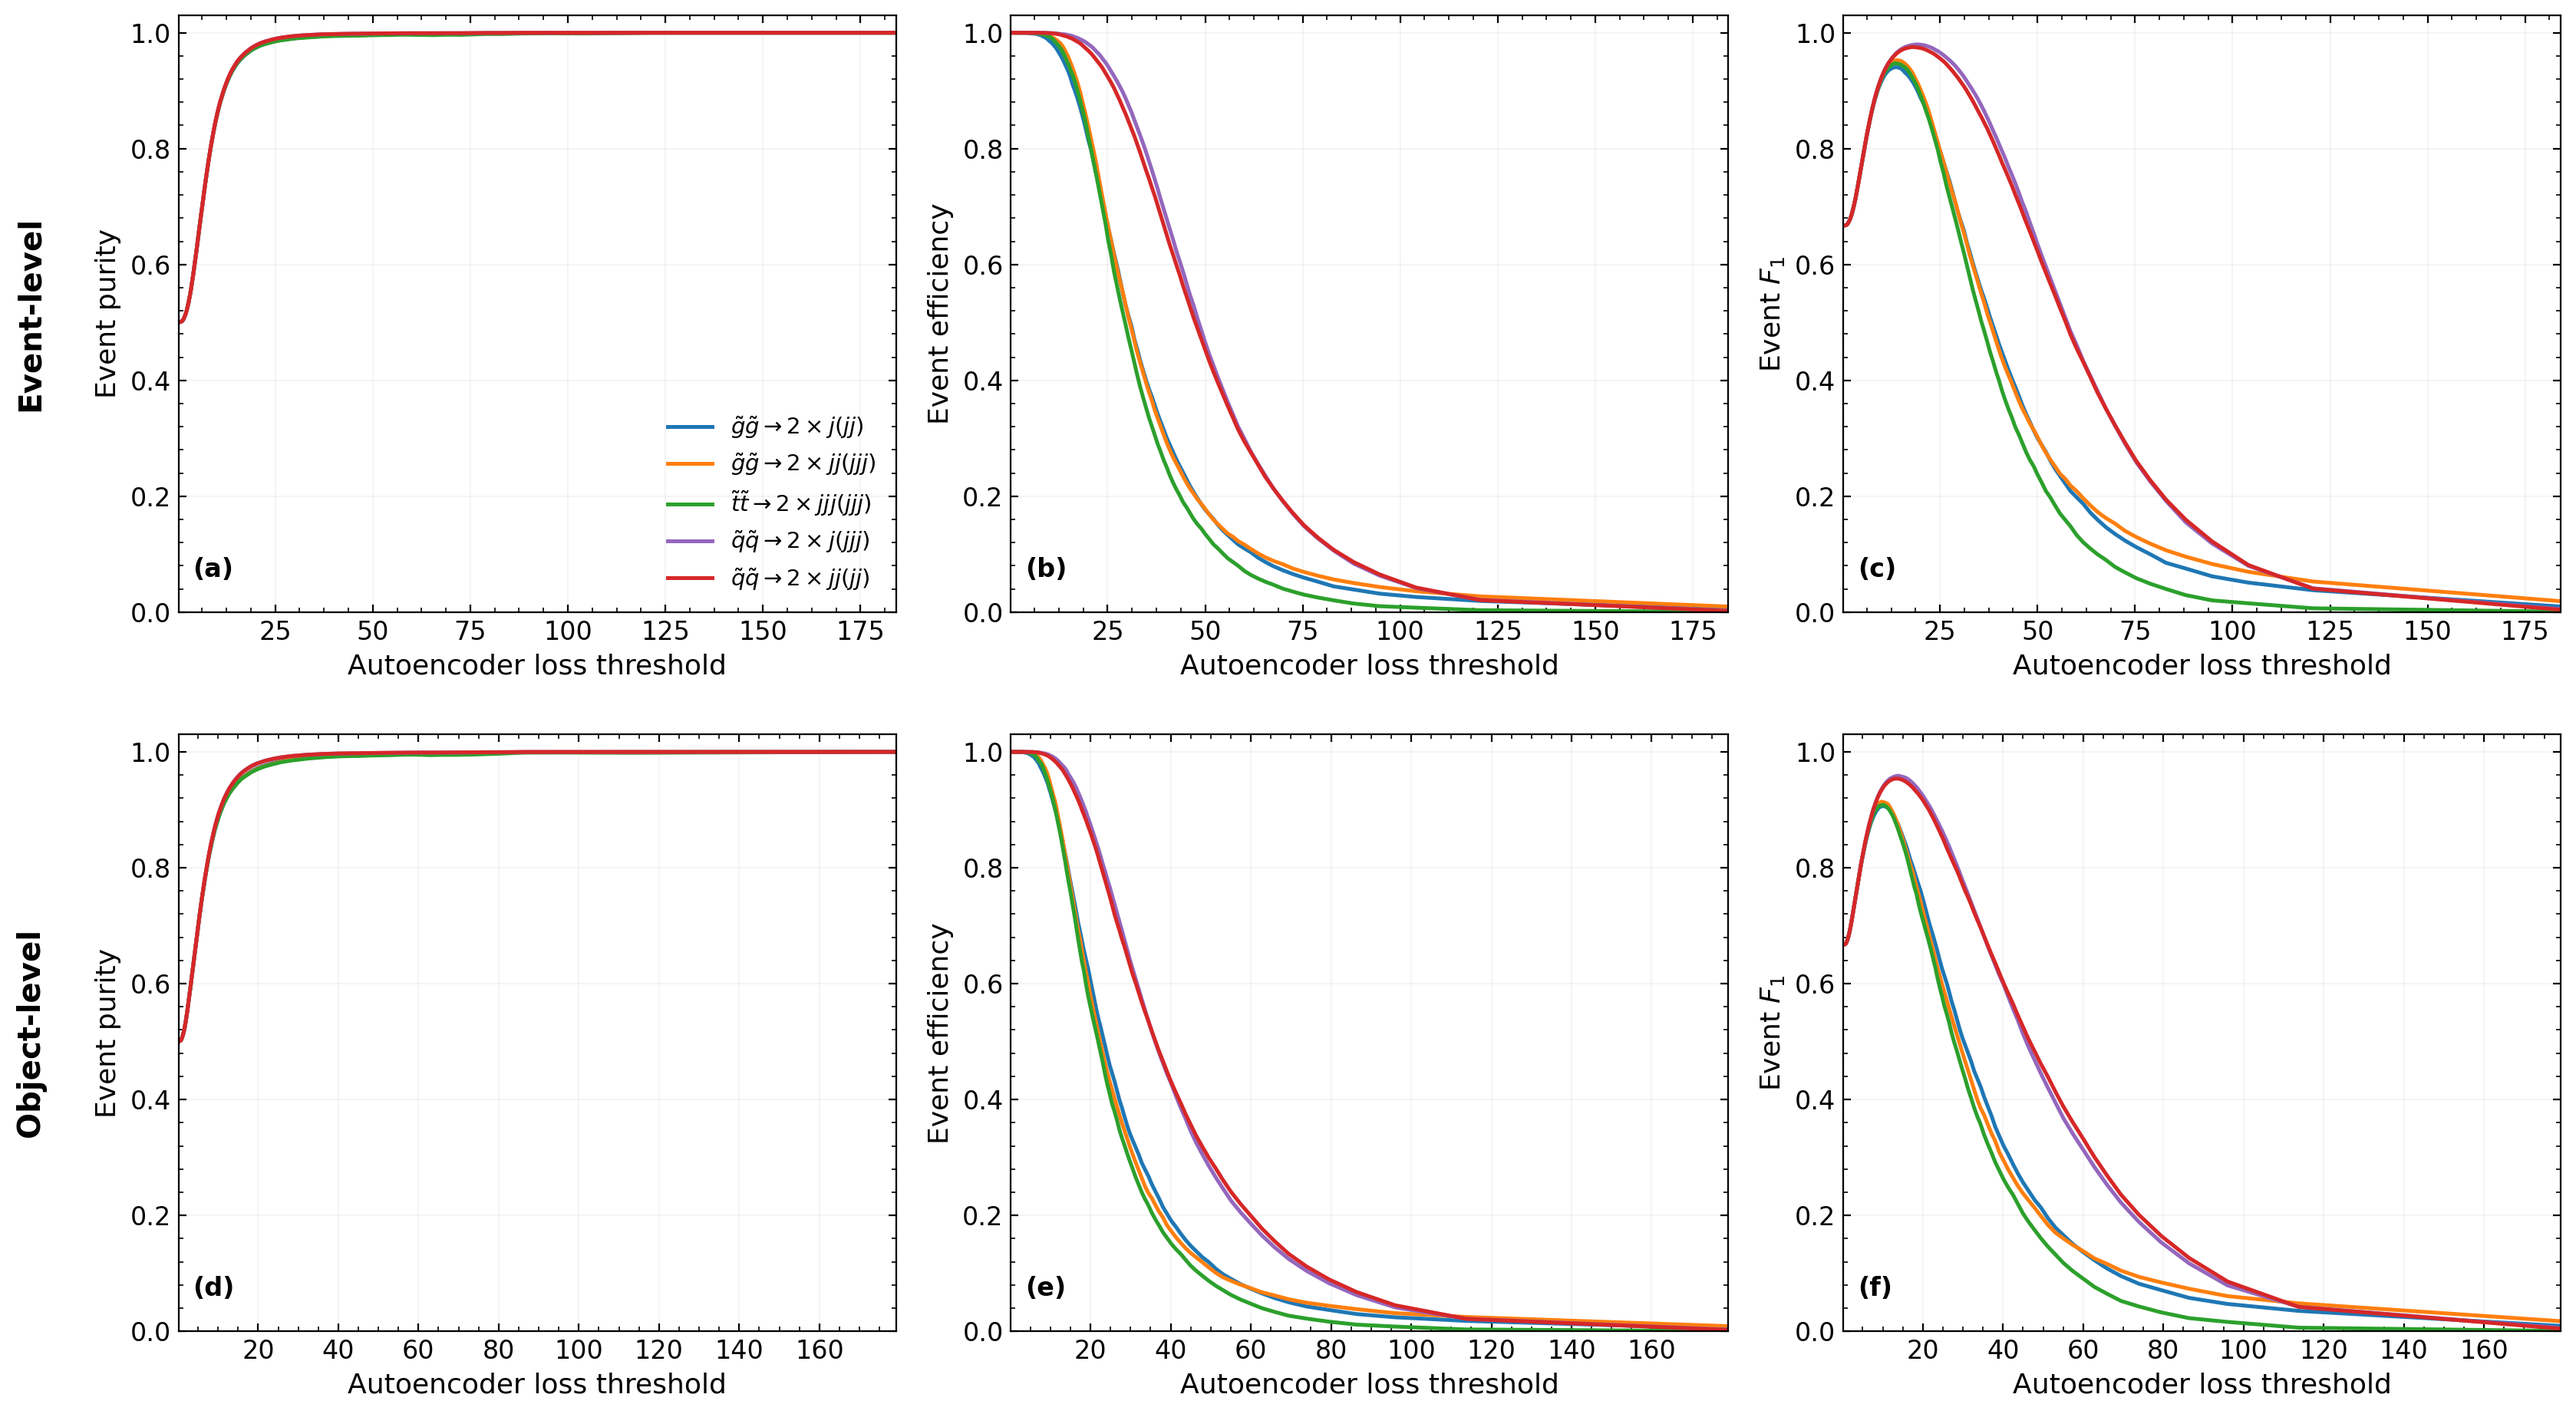
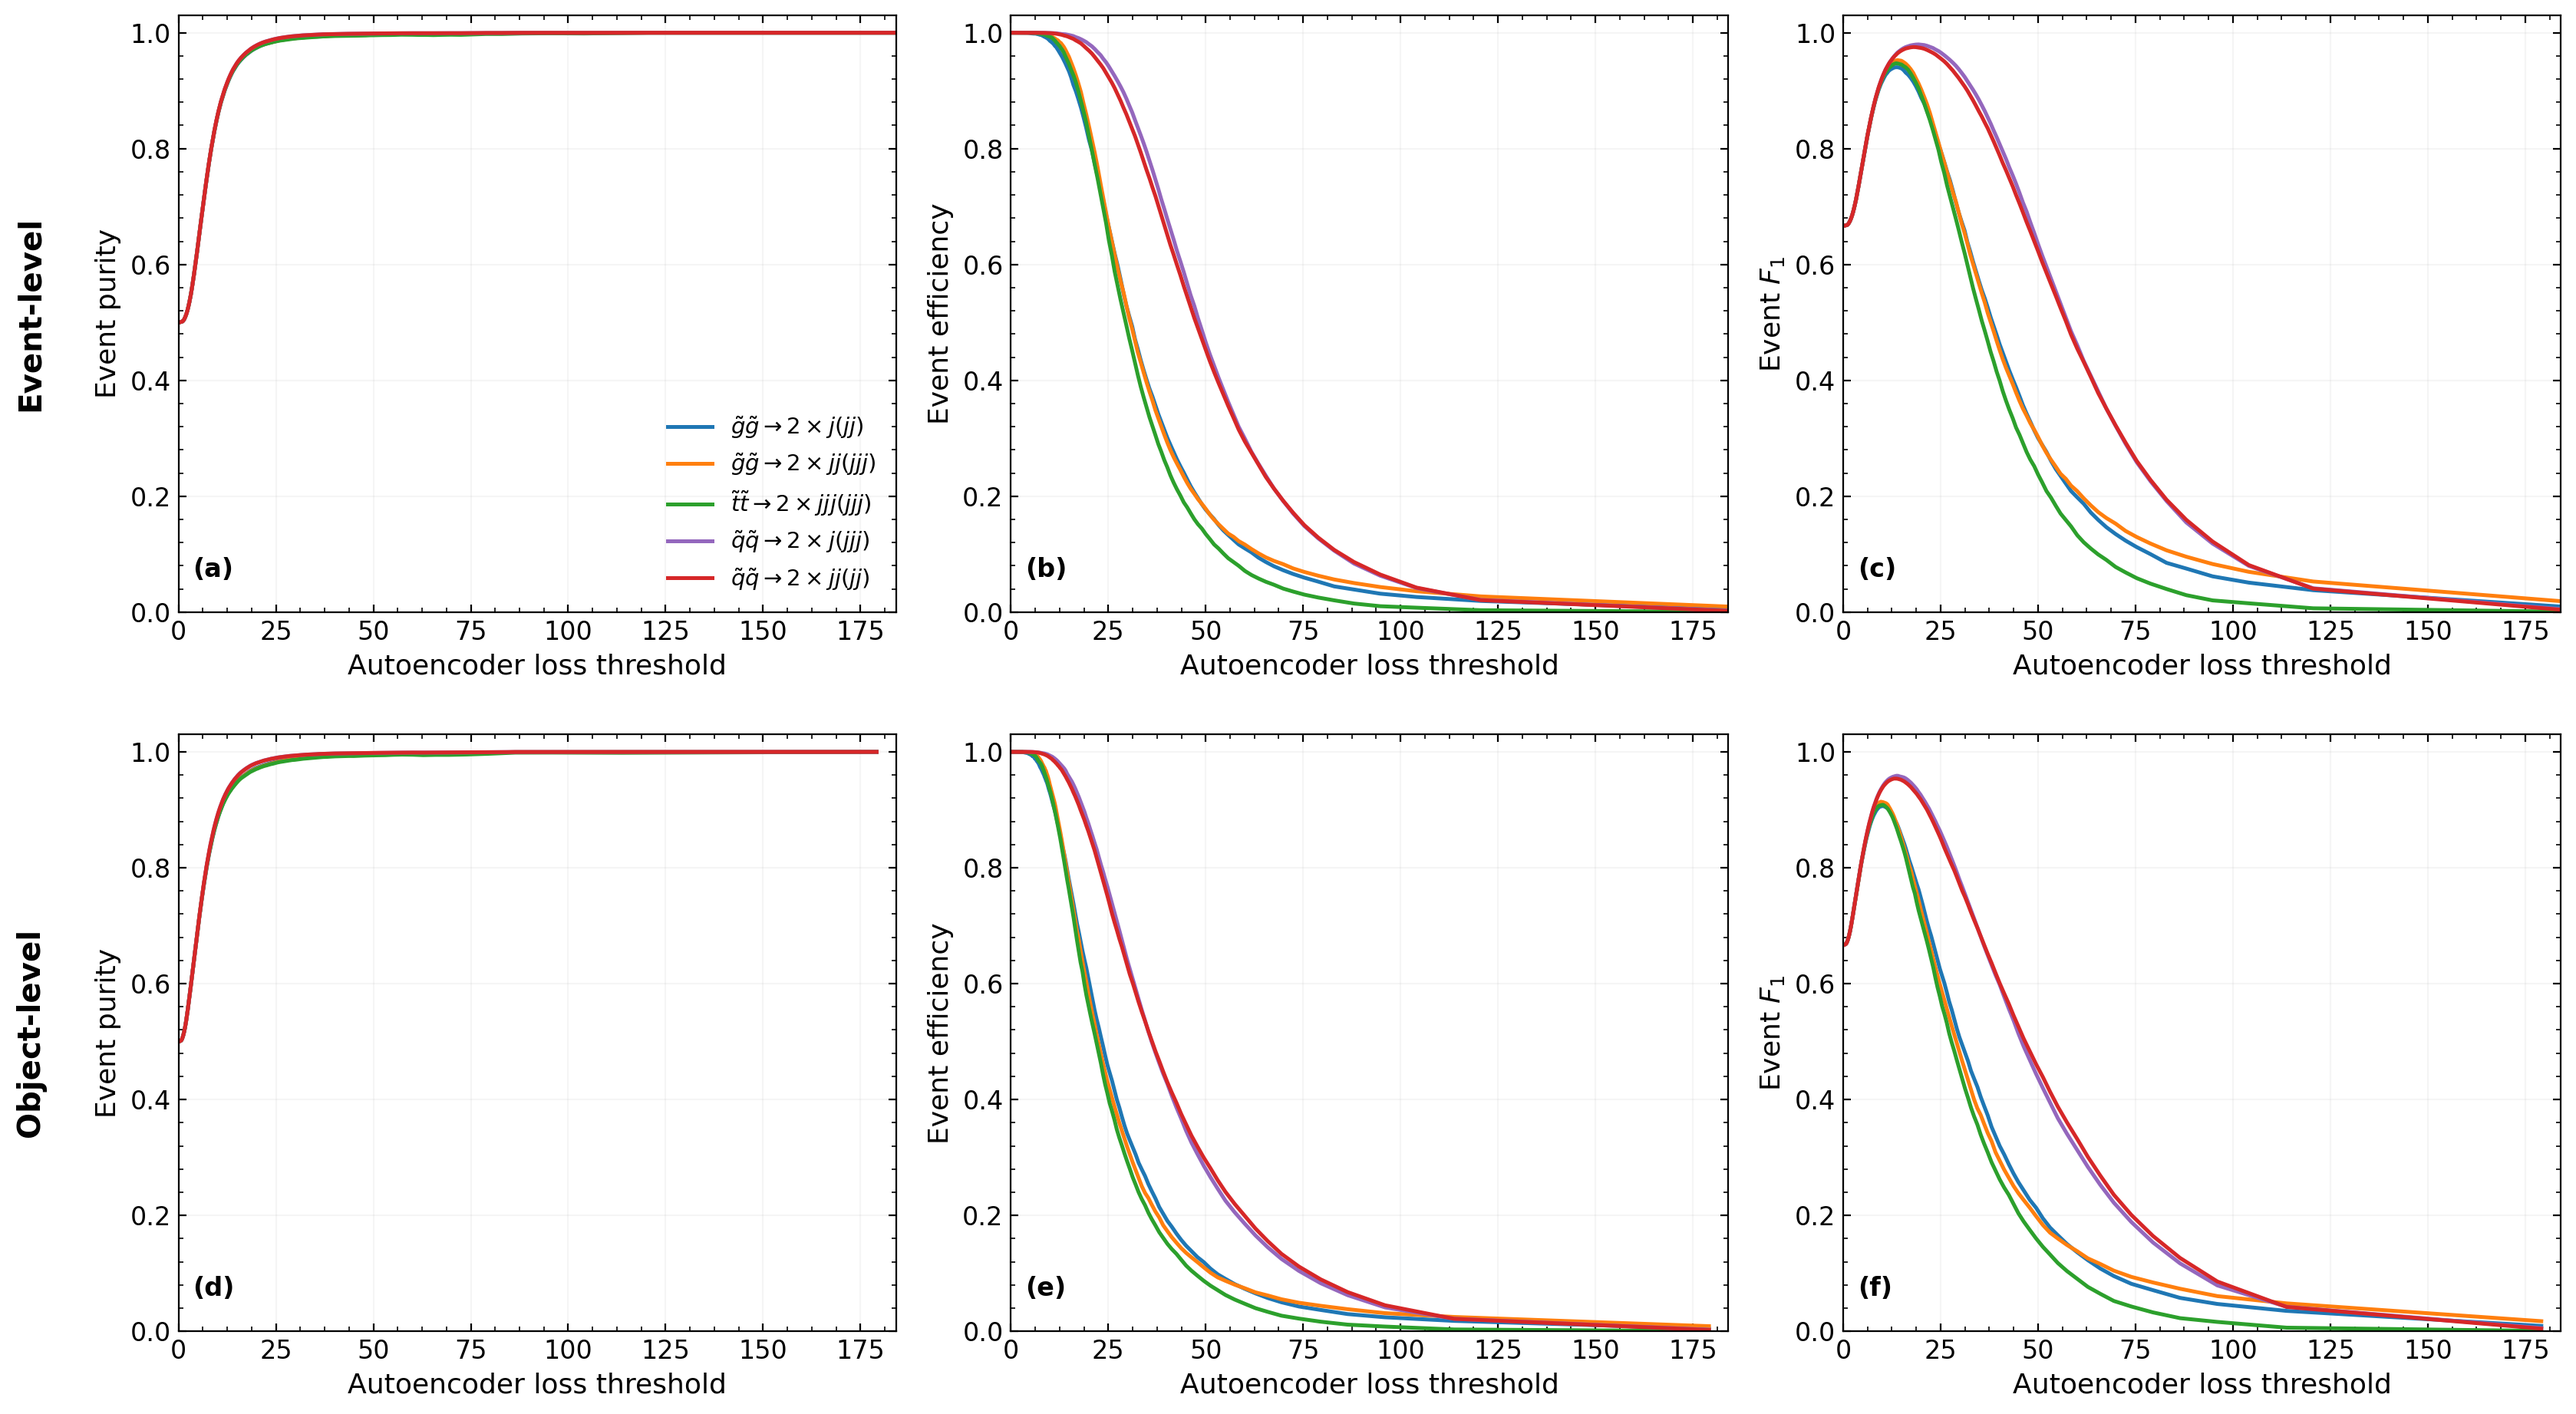
figs: identical x-range and tick labels on both rows of the combined purity figure

diff --git a/scripts/plot_purity_f1_combined.py b/scripts/plot_purity_f1_combined.py
@@ -7,7 +7,7 @@ as the separate figures (ae_loss_metrics.py / ae_loss_percand_metrics.py).
 """
 import numpy as np, matplotlib
 matplotlib.use("Agg"); import matplotlib.pyplot as plt
-from matplotlib.ticker import AutoMinorLocator
+from matplotlib.ticker import AutoMinorLocator, MultipleLocator
 
 SAVE = "/home/snehadri/aie_scratch_save_20260810"
 ev = np.load(f"{SAVE}/ae_losses.npz")
@@ -40,6 +40,8 @@ rows = [("Autoencoder loss threshold",                   curves(ev,   lambda a: 
 ylabels = ["Event purity", "Event efficiency", "Event $F_1$"]
 letters = "abcdef"
 
+XMAX = max(T[-1] for _, (T, _) in rows)      # one x-range and tick set for both rows
+
 plt.rcParams.update({"font.size": 12})
 fig, axes = plt.subplots(2, 3, figsize=(16.8, 9.4))
 for r, (xlab, (T, cv)) in enumerate(rows):
@@ -47,7 +49,8 @@ for r, (xlab, (T, cv)) in enumerate(rows):
         ax = axes[r, c]
         for lab, col, pur, eff, f1 in cv:
             ax.plot(T, (pur, eff, f1)[c], "-", lw=1.8, color=col, label=lab)
-        ax.set_xlim(T[0], T[-1]); ax.set_ylim(0, 1.03)
+        ax.set_xlim(0, XMAX); ax.set_ylim(0, 1.03)
+        ax.xaxis.set_major_locator(MultipleLocator(25))
         ax.set_xlabel(xlab, fontsize=13)
         ax.set_ylabel(ylabels[c], fontsize=13)
         ax.xaxis.set_minor_locator(AutoMinorLocator(4))
